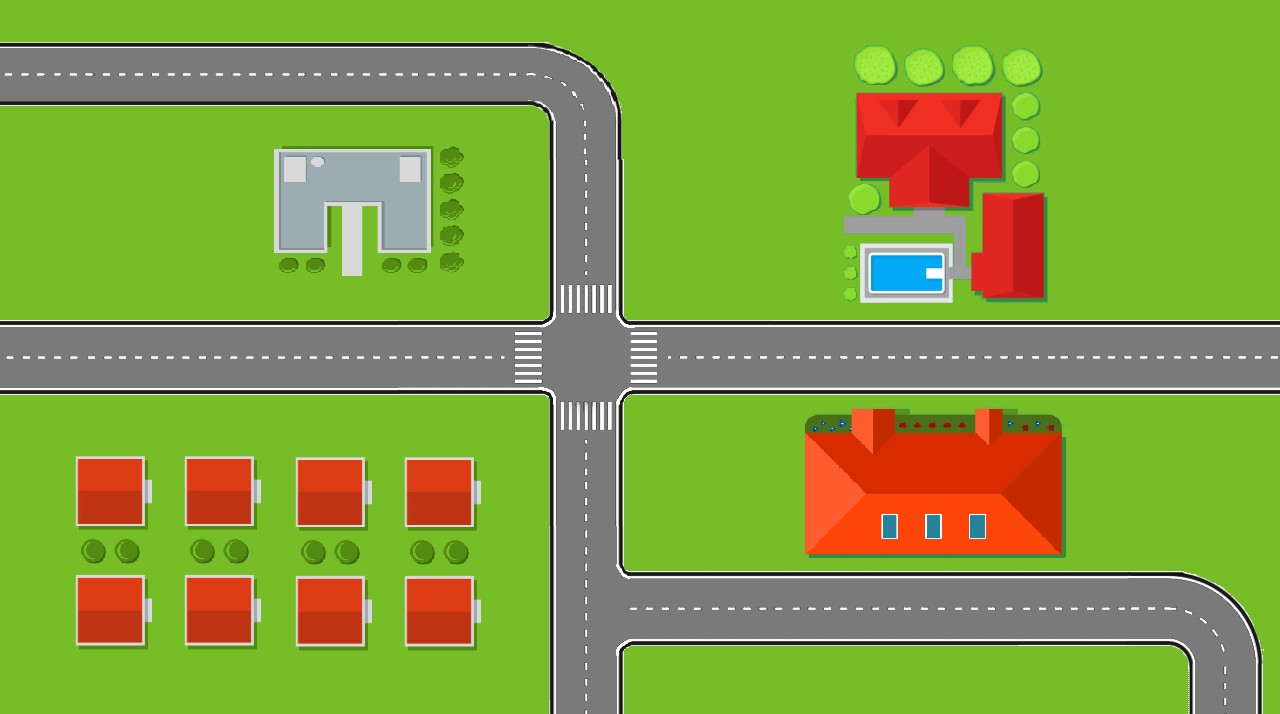
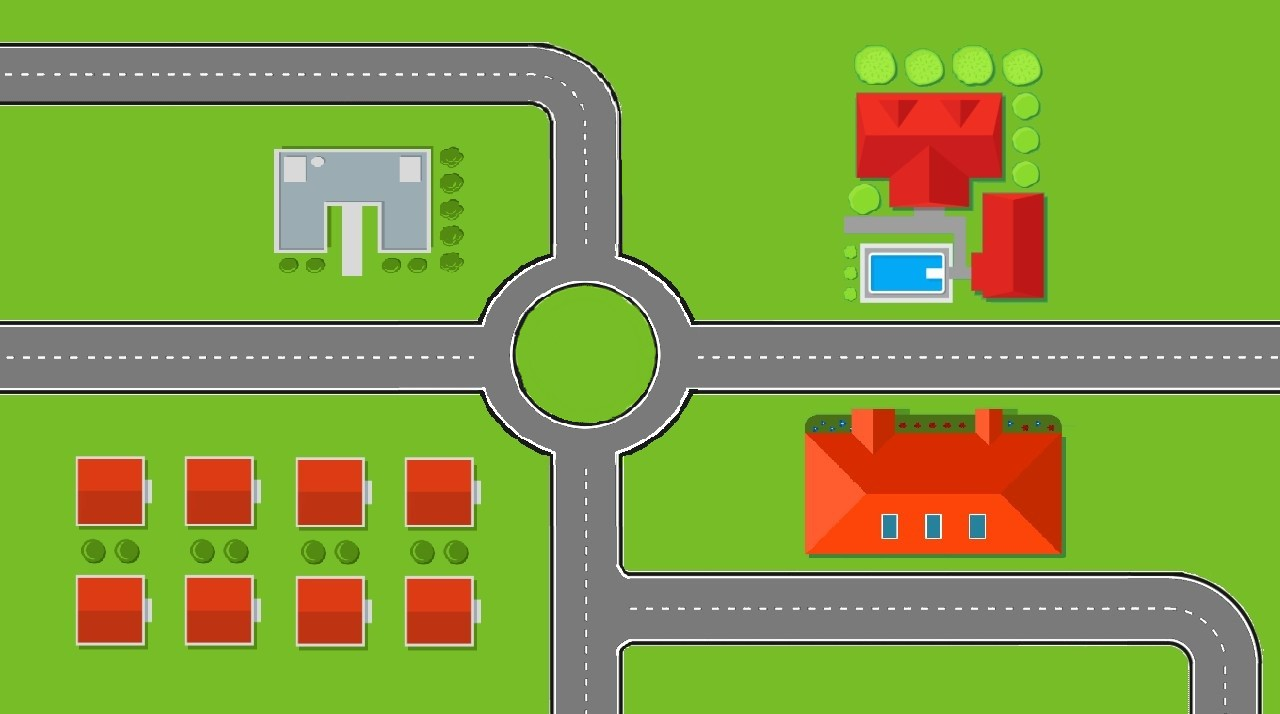
working roundabout still not right of way

Changed region(s): [[0.375, 0.3389, 0.5625, 0.6471]]

diff --git a/simulation/world/road.py b/simulation/world/road.py
@@ -5,13 +5,14 @@ from pygame.math import Vector2
 from pygame.surface import Surface
 
 class Road:
-    def __init__(self, startingNumberOfLanes : int, allLanesInRoad : list[list['Lane']], laneImages : list[Surface], imagesPositions : list[list[int]], junctions : dict[int, 'Junction'] = None):
+    def __init__(self, startingNumberOfLanes : int, allLanesInRoad : list[list['Lane']], laneImages : list[Surface], imagesPositions : list[list[int]], junctions : dict[int, 'Junction'] = None, roundabouts : dict[int, 'Roundabout'] = None):
         self.allLanesInRoad = allLanesInRoad
         self.numberOfDirections = len(allLanesInRoad)
         self.currNumOfLanes = startingNumberOfLanes
         self.laneImages = laneImages
         self.imagesPositions = imagesPositions
         self.junctions = junctions
+        self.roundabouts = roundabouts
  
         
         
@@ -103,6 +104,60 @@ class Road:
         if self.junctions[junctionID].check_queue_position(vehicleId) == 0:
             return True
         return False
+
+
+    def is_roundabout_entry_point(self, targetPosition : Vector2, sourceDirectionIndex : int) -> list[bool, int]:
+        if self.roundabouts is not None:
+            for roundabout in self.roundabouts.values():
+                if roundabout.entryPaths[str(sourceDirectionIndex)][1][0] == targetPosition:
+                    return (True, roundabout.id)
+        return (False , None)
+    
+    def get_roundabout_entry_target_position(self, targetPositionIndex : int, roundaboutId : int, sourceDirectionIndex : int) -> Vector2:
+        entryPathTurnCoordinates = self.roundabouts[roundaboutId].entryPaths[str(sourceDirectionIndex)][1] # Coordinates of the turn
+        if targetPositionIndex + 1 == len(entryPathTurnCoordinates):
+            return entryPathTurnCoordinates[-1]
+        else:
+            return entryPathTurnCoordinates[targetPositionIndex]
+
+    def is_finished_entering_roundabout(self, targetPosition : Vector2, roundaboutId : int, sourceDirectionIndex : int) -> bool:
+        entryPathTurnCoordinates = self.roundabouts[roundaboutId].entryPaths[str(sourceDirectionIndex)][1] # Coordinates of the turn
+        if targetPosition == entryPathTurnCoordinates[-1]:
+            return True
+        return False
+    
+    def get_roundabout_entering_index(self, roundaboutId : int, sourceDirectionIndex : int) -> int:
+        return self.roundabouts[roundaboutId].entryPaths[str(sourceDirectionIndex)][0]
+    
+    def get_next_target_position_of_roundabout_path(self, roundaboutId : int, targetPositionIndex) -> Vector2:
+        path = self.roundabouts[roundaboutId].path
+        pathSize = len(self.roundabouts[roundaboutId].path)
+        return Vector2(path[targetPositionIndex % pathSize - 1])
+
+    def is_desired_roundabout_exit_point(self, roundaboutId : int, targetPosition : Vector2, desiredRoadIndex : int, desiredDirectionIndex : int) -> bool:
+        desiredPath = f"[{desiredRoadIndex},{desiredDirectionIndex}]"
+        if targetPosition == self.roundabouts[roundaboutId].exitPaths[desiredPath][1][0]:
+            return True
+        return False
+
+    def get_next_target_position_of_roundabout_exit(self, roundaboutId : int, targetPositionIndex, desiredRoadIndex, desiredDirectionIndex) -> Vector2:
+        desiredPathIndexes = f"[{desiredRoadIndex},{desiredDirectionIndex}]"
+        exitPath = self.roundabouts[roundaboutId].exitPaths[desiredPathIndexes][1]
+        if targetPositionIndex + 1 == len(exitPath):
+             return exitPath[-1]
+        else:
+            return exitPath[targetPositionIndex]
+
+    def is_end_of_roundabout_exit(self, roundaboutId : int, targetPosition: Vector2, desiredRoadIndex, desiredDirectionIndex) -> bool:
+        desiredPathIndexes = f"[{desiredRoadIndex},{desiredDirectionIndex}]"
+        exitPath = self.roundabouts[roundaboutId].exitPaths[desiredPathIndexes][1]
+        if targetPosition == exitPath[-1]:
+            return True
+        return False
+    
+    def get_roundabout_to_road_index(self, roundaboutId : int, desiredRoadIndex, desiredDirectionIndex) -> int:
+        desiredPathIndexes = f"[{desiredRoadIndex},{desiredDirectionIndex}]"
+        return self.roundabouts[roundaboutId].exitPaths[desiredPathIndexes][2]
     
     #======== class Lane ========#
     class Lane:
@@ -136,8 +191,14 @@ class Road:
             if vehicleId in self.queue:
                 return self.queue.index(vehicleId)
             return -1
-                    
 
+    #======== class Junction ========#
+    class Roundabout:
+        def __init__(self, path : list[Vector2], entryPaths : dict, exitPaths : dict,  id : int):
+            self.path = path
+            self.entryPaths = entryPaths
+            self.exitPaths = exitPaths
+            self.id = id
 
 class RoadBuilder:
     @staticmethod
@@ -146,6 +207,8 @@ class RoadBuilder:
             roads = RoadBuilder.straight_road_read_lanes_from_file(startingNumberOfLanes)
         elif 'junction' in roadName:
             roads = RoadBuilder.junction_road_read_lanes_from_file(startingNumberOfLanes, roadName)
+        elif 'roundabout' in roadName:
+            roads = RoadBuilder.roundabout_road_read_lanes_from_file(startingNumberOfLanes, roadName)    
         
      
         return roads
@@ -209,7 +272,7 @@ class RoadBuilder:
             # imagesPos = roadData["image_pos"]
             images, imagesPos = RoadBuilder.load_lane_images(roadData)
             
-            junctions = RoadBuilder.read_junctions_from_json(data)
+            junctions = RoadBuilder.read_junctions_from_json(roadData)
             roadIndex = 0
             #TODO add a way to limit user - only 1 or 2 lanes in each direction           
             for idx, lane_coordinates in enumerate(lanesData):
@@ -233,18 +296,30 @@ class RoadBuilder:
             return roadsList  
 
     
+    # @staticmethod
+    # def read_junctions_from_json(data) -> dict[int, Road.Junction]:
+    #     """
+    #         parses json to return list of junction dicts
+    #     """
+    #     junctionDict : dict[int, Road.Junction] = {}
+        
+    #     for id, key in enumerate(data["junction_road"]["junctions"].keys()):
+    #         junctionDict[id] = (Road.Junction(data["junction_road"]["junctions"][key], id))
+                       
+    #     return junctionDict
+    
     @staticmethod
-    def read_junctions_from_json(data) -> dict[int, Road.Junction]:
+    def read_junctions_from_json(roadData) -> dict[int, Road.Junction]:
         """
             parses json to return list of junction dicts
         """
         junctionDict : dict[int, Road.Junction] = {}
         
-        for id, key in enumerate(data["junction_road"]["junctions"].keys()):
-            junctionDict[id] = (Road.Junction(data["junction_road"]["junctions"][key], id))
+        for id, key in enumerate(roadData["junctions"].keys()):
+            junctionDict[id] = (Road.Junction(roadData["junctions"][key], id))
                        
         return junctionDict
-    
+
     
     @staticmethod
     def get_relevant_junction_info(junctions : dict[int, Road.Junction], roadIndex : int) -> dict[int, Road.Junction]:
@@ -260,3 +335,52 @@ class RoadBuilder:
                     relevantJunctions[junction.id] = relevantJunction
         
         return relevantJunctions
+    
+    @staticmethod
+    def roundabout_road_read_lanes_from_file(startingNumberOfLanes : int, roadName : str) -> list[Road]:
+         with open("jsons\\road.json", 'r') as file:
+            
+            data = json.load(file)
+            roadsList = []
+            roadData = data['roundabout_road']
+            lanesData = roadData['lanes']   
+            lanesDirection1 = []
+            lanesDirection2 = []
+            roundaboutData = roadData['roundabouts']
+            images, imagesPos = RoadBuilder.load_lane_images(roadData)
+            
+            junctions = RoadBuilder.read_junctions_from_json(roadData)
+            roadIndex = 0
+            #TODO add a way to limit user - only 1 or 2 lanes in each direction           
+            for idx, lane_coordinates in enumerate(lanesData):
+                path = [Vector2(coord) for coord in lane_coordinates]
+                spawnPoint = False if idx == 5 else True
+                lane = Road.Lane(path, spawnPoint)
+
+                if idx % 2 == 0:
+                    lanesDirection1.append(lane)
+                else:
+                    lanesDirection2.append(lane)
+                    
+                    roadDirections = [lanesDirection1, lanesDirection2]
+                    relevantJunctions = RoadBuilder.get_relevant_junction_info(junctions, roadIndex)
+                    relevantRoundabouts = RoadBuilder.create_roundabouts(roundaboutData, roadIndex)
+                    road = Road(startingNumberOfLanes, roadDirections, images, imagesPos, relevantJunctions, relevantRoundabouts)
+                    roadIndex += 1
+                    roadsList.append(road)
+                    lanesDirection1 = []
+                    lanesDirection2 = []
+                    
+            return roadsList
+    
+    @staticmethod
+    def create_roundabouts(roundabouts : dict, roadIndex : int) -> dict[int, Road.Roundabout]:
+        roundaboutsDict = {}
+        for roundaboutId, roundabout in enumerate(roundabouts.values()):
+            if roadIndex in roundabout["roadsIndexes"]:
+                path = roundabout["roundabout_path"]
+                entryPaths = roundabout["entry_paths"]
+                exitPaths = roundabout["exit_paths"]
+                entryDict = entryPaths[str(roadIndex)]
+                roundaboutsDict[roundaboutId] = Road.Roundabout(path, entryDict, exitPaths, roundaboutId)
+        return roundaboutsDict           

diff --git a/simulation/vehicle/Vehicle.py b/simulation/vehicle/Vehicle.py
@@ -73,10 +73,15 @@ class Vehicle:
         self.rect = image.get_rect()
         self.mask = mask.from_surface(self.originalImage) 
         self.update_vehicle_edges_and_corners()
-        self.screen = screen
-     
+        self.screen = screen #TODO DELETEEEEEEEEEEEEEEEEEEEEEEEE
+        self.roundaboutTargetPositionIndex = 0
+        self.desiredRoadIndex = self.roadIndex
+        self.desiredDirectionIndex = self.directionIndex
+        self.roundaboutId : int = None
+        self.inRoundabout = False
+        self.enteringRoundabout = False
+        self.exitingRoundabout = False
 
-        
     def update_vehicle_edges_and_corners(self):
         normalizedVector = Vector2(1, 0)
                                 
@@ -108,8 +113,10 @@ class Vehicle:
         """
         acceleration = self.calculate_acceleration(allHazards, world.POLITENESS)
         self.accelerate_and_break(acceleration)
+
+
         
-        if not self.inJunction:
+        if not self.inJunction and not self.inRoundabout and not self.enteringRoundabout and not self.exitingRoundabout:
             if self.finishedSwitchingLane:
                 self.finishedSwitchingLane = False
                 self.shouldSwitchLane = False
@@ -121,14 +128,43 @@ class Vehicle:
             
             nextTargetPosition = road.get_target_position(self.directionIndex, self.desiredLaneIndex, self.targetPositionIndex + 1)
             startOfJunction, pathOptions, self.junctionID = road.is_start_of_junction(nextTargetPosition, self.directionIndex)
+            
             if startOfJunction:
                 self.desiredJunctionRoadIndex, self.desiredJunctionsDirectionIndex, self.turnDirection = self.draw_desired_junction_path(pathOptions)
                 self.junctionTargetPositionIndex = 0
                 self.inJunction = True 
                 road.junctions[self.junctionID].add_to_queue(self.id)
                 self.set_desired_speed(40)
-               
-        if self.inJunction:
+            else:
+                isRoundaboutEntryPoint, roundaboutId = road.is_roundabout_entry_point(nextTargetPosition, self.directionIndex)
+                if isRoundaboutEntryPoint:
+                    self.enteringRoundabout = True
+                    self.roundaboutId = roundaboutId
+                    self.draw_roundabout_exit_choice(road, self.roundaboutId)
+
+        
+        if self.enteringRoundabout:
+            nextTargetPosition = self.handle_roundabout_entry(road, allHazards, self.roundaboutId)
+            if road.is_finished_entering_roundabout(nextTargetPosition, self.roundaboutId, self.directionIndex):
+                self.roundaboutTargetPositionIndex = road.get_roundabout_entering_index(self.roundaboutId, self.directionIndex)
+                self.inRoundabout = True
+                self.enteringRoundabout = False
+       
+        elif self.inRoundabout:
+            nextTargetPosition = road.get_next_target_position_of_roundabout_path(self.roundaboutId, self.roundaboutTargetPositionIndex + 1)        
+            if road.is_desired_roundabout_exit_point(self.roundaboutId, nextTargetPosition, self.desiredRoadIndex, self.desiredDirectionIndex):
+                self.roundaboutTargetPositionIndex = 0
+                self.exitingRoundabout = True
+                self.inRoundabout = False
+        elif self.exitingRoundabout:
+            nextTargetPosition = road.get_next_target_position_of_roundabout_exit(self.roundaboutId, self.roundaboutTargetPositionIndex, self.desiredRoadIndex, self.desiredDirectionIndex)
+            if road.is_end_of_roundabout_exit(self.roundaboutId, nextTargetPosition, self.desiredRoadIndex, self.desiredDirectionIndex):
+                self.targetPositionIndex = road.get_roundabout_to_road_index(self.roundaboutId, self.desiredRoadIndex, self.desiredDirectionIndex)
+                self.roadIndex = int(self.desiredRoadIndex)
+                self.directionIndex = int(self.desiredDirectionIndex)
+                self.exitingRoundabout = False
+            
+        elif self.inJunction:
             if self.enterJunction:
                 nextTargetPosition = road.get_target_position_junction(self.junctionID, self.directionIndex, self.desiredJunctionRoadIndex, self.desiredJunctionsDirectionIndex, self.junctionTargetPositionIndex + 1)
                 nextTargetPosition2 = road.get_target_position_junction(self.junctionID, self.directionIndex, self.desiredJunctionRoadIndex, self.desiredJunctionsDirectionIndex, self.junctionTargetPositionIndex + 2)
@@ -235,7 +271,18 @@ class Vehicle:
             self.completedHazards[hazardID] = False 
         else:
             self.completedHazards[hazardID] = hazardCompletionStatus
-        
+
+
+    def handle_roundabout_entry(self, road : Road, allHazards : dict, roundaboutId : int) -> Vector2:
+        nextTargetPosition = road.get_roundabout_entry_target_position(self.roundaboutTargetPositionIndex, roundaboutId, self.directionIndex)
+        return Vector2(nextTargetPosition)
+
+    # def can_enter_roundabout(self, road : Road, vehiclesLeft : list['Vehicle'], vehiclesFront : list['Vehicle'], roundaboutId : int) -> bool:
+
+    
+    #     for vehicle in vehiclesFront:
+    #         if 
+
 
     def can_enter_junction(self, frontFOV : list['Vehicle'], rightFOV : list['Vehicle'], leftFOV : list['Vehicle'], turnDirection : str, road : Road, allRoads : list[Road]) -> bool:
         """
@@ -315,6 +362,11 @@ class Vehicle:
             return float('inf')
     
     
+    def draw_roundabout_exit_choice(self, road : Road, roundaboutId : int):
+        randomExitNumber = random.randint(0, 3)
+        randomExit =  list(road.roundabouts[roundaboutId].exitPaths.keys())
+        self.desiredRoadIndex, self.desiredDirectionIndex = randomExit[randomExitNumber].strip("[]").split(",")
+
     def draw_desired_junction_path(self, pathOptions : dict) -> list[str, str, str]:
         directionKey = list(pathOptions.keys())
         numberOfOptions = len(directionKey)
@@ -442,8 +494,11 @@ class Vehicle:
             self.location.update(targetPos)
             if not self.inJunction:
                 self.targetPositionIndex += 1
-            else:
+            if self.inJunction:
                 self.junctionTargetPositionIndex += 1
+            if self.enteringRoundabout or self.inRoundabout or self.exitingRoundabout:
+                self.roundaboutTargetPositionIndex += 1
+
 
         self.rect.center = self.location
         self.update_vehicle_edges_and_corners()
@@ -550,7 +605,7 @@ class Vehicle:
                     if hazard.id not in self.completedHazards.keys() or self.completedHazards[hazard.id] == False:
                         surroundings['hazards_ahead'].append(hazard)       
 
-        if not self.inJunction:
+        if not self.inJunction and not self.inRoundabout:
             surroundings['vehicle_ahead'] = self.get_closest_vehicle_on_same_road(surroundings['vehicles_front'], self.desiredLaneIndex, 'front', checkAllLanes=True)
         else:
             surroundings['vehicle_ahead'] = self.get_closest_vehicle_in_front_fov(surroundings['vehicles_front'])

diff --git a/main.py b/main.py
@@ -9,8 +9,9 @@ from pygame.math import Vector2
 import pygame
 import sys
 
-simulationWorld = World("junction", 1)
+#simulationWorld = World("junction", 1)
 # simulationWorld = World("straight", 2)
+simulationWorld = World("roundabout", 1)
 simulationWorld.set_vehicles_manager(VehiclesManager(simulationWorld.NUMBER_OF_CARS))
 dataManager = DataManager(filename='simulation_data.xlsx', export_interval=2)
 next_stat_update = pygame.time.get_ticks() + dataManager.export_interval * 1000
@@ -18,9 +19,9 @@ next_stat_update = pygame.time.get_ticks() + dataManager.export_interval * 1000
 speedLimit = SpeedLimit(Vector2([185, 405]), 1, 0, [pygame.transform.scale(pygame.image.load("pictures\\hazardsPictures\\speed_limit.png").convert(), (30,70))], 30)
 stopSign = StopSign(Vector2([670, 510]), 2, 0, [pygame.transform.scale(pygame.image.load("pictures\\hazardsPictures\\stop.jpg").convert(), (30,70))])
 stopSign2 = StopSign(Vector2([670, 260]), 1, 1, [pygame.transform.scale(pygame.image.load("pictures\\hazardsPictures\\stop.jpg").convert(), (30,70))])
-simulationWorld.roads[2].update_road_and_direction_priority(1, 2, 0, 1)
-simulationWorld.roads[1].update_road_and_direction_priority(0, 1, 0, 1)
-simulationWorld.roads[1].update_road_and_direction_priority(0, 1, 1, 1)
+# simulationWorld.roads[2].update_road_and_direction_priority(1, 2, 0, 1)
+# simulationWorld.roads[1].update_road_and_direction_priority(0, 1, 0, 1)
+# simulationWorld.roads[1].update_road_and_direction_priority(0, 1, 1, 1)
 simulationWorld.add_hazard(speedLimit)
 simulationWorld.add_hazard(stopSign)
 simulationWorld.add_hazard(stopSign2)

diff --git a/simulation/world/hazard.py b/simulation/world/hazard.py
@@ -39,7 +39,7 @@ class SpeedLimit(Hazard):
     def affect_vehicle(self, vehicle, distance: float) -> float:
         if distance <= 50:
             vehicle.set_desired_speed(self.attributes["limit"])
-        return -10
+        return -10 # for overide
 
     def check_hazard_rule_completion(self, vehicle, distance : float) -> bool:
         if distance <= 50:
